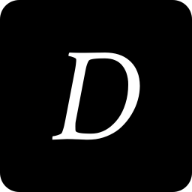
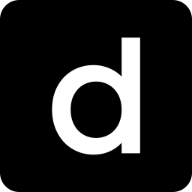
removed the rickroll

Changed region(s): [[0.25, 0.1875, 0.75, 0.8125]]

diff --git a/index.html b/index.html
@@ -3,11 +3,11 @@
   <head>
     <meta charset="utf-8">
     <meta name="viewport" content="width=device-width, initial-scale=1">
-    <title>Deuce</title>
+    <title>dEuc3</title>
     <link rel="stylesheet" href="style.css">
     <link href="https://cdn.jsdelivr.net/npm/bootstrap@5.2.3/dist/css/bootstrap.min.css" rel="stylesheet" integrity="sha384-rbsA2VBKQhggwzxH7pPCaAqO46MgnOM80zW1RWuH61DGLwZJEdK2Kadq2F9CUG65" crossorigin="anonymous">
     <link rel="stylesheet" href="https://cdnjs.cloudflare.com/ajax/libs/font-awesome/6.4.0/css/all.min.css">
-    <link rel="shortcut icon" href="/assets/favicon.ico" type="image/x-icon">
+    <link rel="shortcut icon" href="/assets/favicon-16x16.png" type="image/x-icon">
   </head>
   
   <body>
@@ -191,9 +191,9 @@
                   <div>
                       <ul class="text-start p-0 hidden container text-center">
                          <a target="_blank" href="https://discord.gg/QCDzCS4rWd"> <i class="fab fa-discord"></i> </a> 
-                         <a target="_blank" href="https://www.youtube.com/watch?v=dQw4w9WgXcQ&pp=ygUjcmljayBhc3RsZXkgbmV2ZXIgZ29ubmEgZ2l2ZSB5b3UgdXA%3D"> <i class="fab fa-slack"></i> </a> 
+                         <a target="_blank" href="https://twitter.com/dEuc33y?t=sSvVqmwz7AIGEu3tdEDLaw&s=03"> <i class="fab fa-twitter"></i> </a> 
                          <a target="_blank" href="https://wa.me/message/2PXDNACZN3AMM1"> <i class="fab fa-whatsapp"></i> </a> 
-                         <a target="_blank" href="https://www.youtube.com/watch?v=dQw4w9WgXcQ&pp=ygUjcmljayBhc3RsZXkgbmV2ZXIgZ29ubmEgZ2l2ZSB5b3UgdXA%3D"> <i class="fab fa-instagram"></i> </a> 
+                         <a target="_blank" href="https://instagram.com/theraddeuce?igshid=ZDdkNTZiNTM="> <i class="fab fa-instagram"></i> </a> 
                       </ul>
                     </div>
 

diff --git a/index.js b/index.js
@@ -3,7 +3,7 @@
 const typedTextSpan = document.querySelector(".typed-text");
 const cursorSpan = document.querySelector(".cursor");
 
-const textArray = ["A Frontend Developer", "Gamer", "inside your mom lmao", "sorry"];
+const textArray = ["A Frontend Developer", "Gamer", "Jesse", "Deuce"];
 const typingDelay = 100;
 const erasingDelay = 50;
 const newTextDelay = 2000; // Delay between current and next text
@@ -74,8 +74,9 @@ const observer = new IntersectionObserver((entries) => {
       console.log(entry);
       if (entry.isIntersecting){
           entry.target.classList.add('show')
-      } else 
-      entry.target.classList.remove('show')
+      } 
+      // else 
+      // entry.target.classList.remove('show')
   })
 })
 

diff --git a/style.css b/style.css
@@ -11,9 +11,6 @@
   z-index: 100;
  
 }
-
-
-
 /* loader */
 
 
@@ -329,7 +326,9 @@ textarea::placeholder{
 }
 
 .button{
-  padding: 20px;
+  outline: none;
+  border: none;
+  padding: 10px;
   font-size: 19px;
   font-weight: 500;
   display: flex;
@@ -387,6 +386,8 @@ a{
 }
 
 #submit-button{
+  outline: none;
+  border: none;
   width: 100%;
   display: flex;
   justify-content: center;
@@ -523,7 +524,7 @@ media query */
   opacity: 0;
   transition: all 1s !important;
   filter: blur(5px);
-  transform: translatex(-100%);
+  transform: translatex(-10%);
 }
 
 
